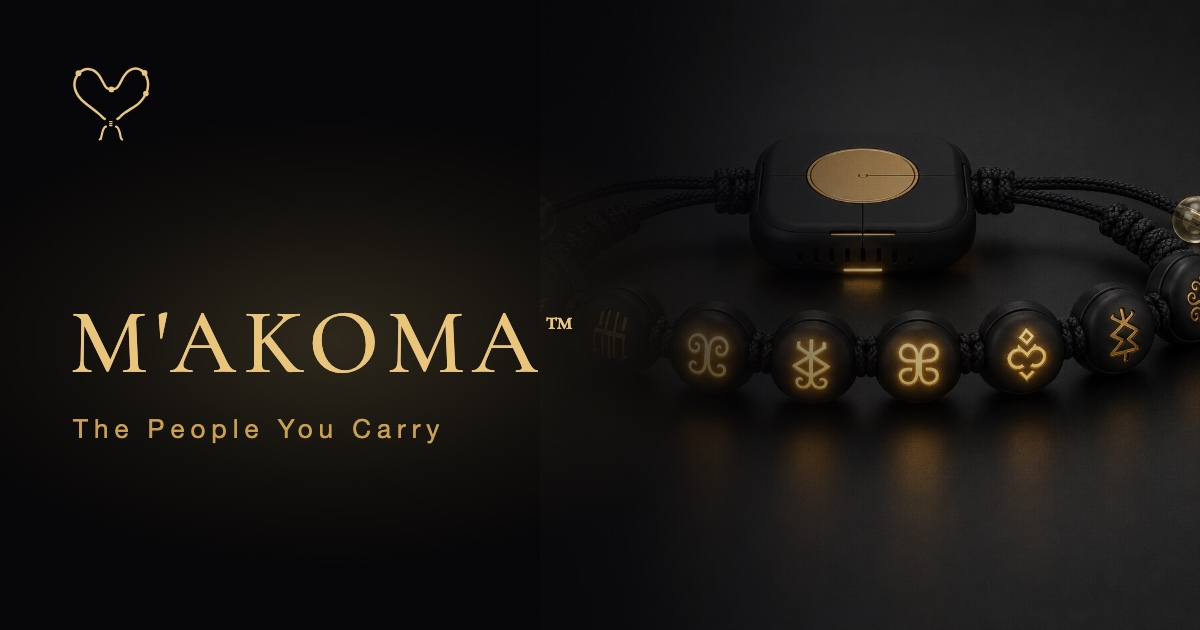
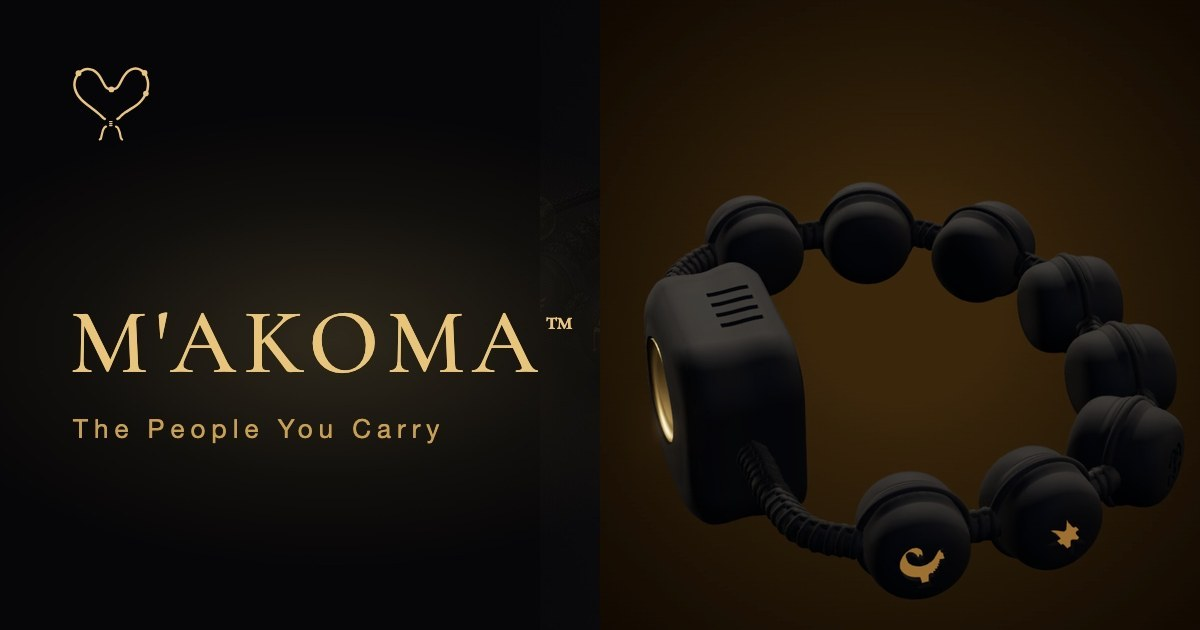
Replace the AI-generated bracelet image with the real CAD render (hero + og-image)

Changed region(s): [[0.5242, 0.0, 1.0, 1.0]]

diff --git a/index.html b/index.html
@@ -38,8 +38,8 @@
 <link rel="preconnect" href="https://fonts.gstatic.com" crossorigin />
 <!-- The hero still is the largest thing above the fold; start it before the parser reaches the <picture>. -->
 <link rel="preload" as="image" type="image/webp"
-      href="assets/img/bracelet-makoma.webp"
-      imagesrcset="assets/img/bracelet-makoma-960.webp 960w, assets/img/bracelet-makoma.webp 1536w"
+      href="assets/img/makoma-hero.webp"
+      imagesrcset="assets/img/makoma-hero-760.webp 760w, assets/img/makoma-hero.webp 1100w"
       imagesizes="100vw" fetchpriority="high" />
 <!-- three.js heads a serial chain (three -> DRACO -> bracelet GLB); start it during HTML parse, not after. -->
 <link rel="modulepreload" href="assets/vendor/three/three.module.js" />
@@ -142,13 +142,13 @@
   <div class="hero3d-sticky">
     <canvas id="heroCanvas" aria-hidden="true"></canvas>
     <!-- The hero's first paint: shown instantly, then cross-faded out once the live 3D is up.
-         WebP (54 KB / 22 KB mobile) replaces the 364 KB JPEG, which is kept as the fallback. -->
+         The REAL CAD render. WebP 19 KB / 12 KB mobile, JPEG fallback. -->
     <picture>
       <source type="image/webp"
-              srcset="assets/img/bracelet-makoma-960.webp 960w, assets/img/bracelet-makoma.webp 1536w"
+              srcset="assets/img/makoma-hero-760.webp 760w, assets/img/makoma-hero.webp 1100w"
               sizes="100vw" />
-      <img src="assets/img/bracelet-makoma.jpg" class="hero3d-poster" id="heroPoster"
-           width="1536" height="1024" fetchpriority="high" decoding="async"
+      <img src="assets/img/makoma-hero.jpg" class="hero3d-poster" id="heroPoster"
+           width="1100" height="2390" fetchpriority="high" decoding="async"
            alt="The M'AKOMA bracelet rendered in 3D — beads and core hub on a braided cord." />
     </picture>
     <div class="hero3d-veil" aria-hidden="true"></div>
